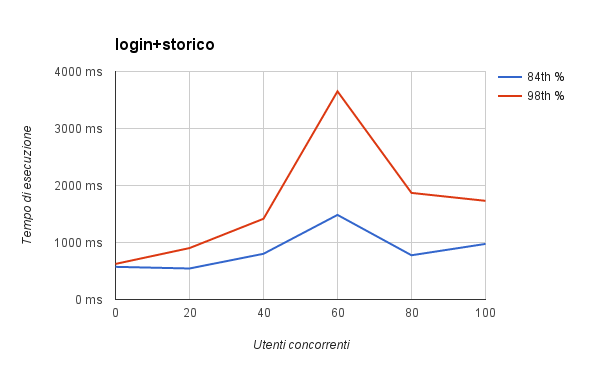
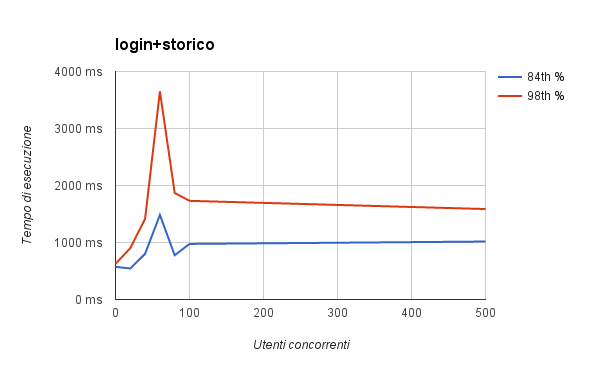
Added 500 users test

diff --git a/results/2016-23-02/README.md b/results/2016-23-02/README.md
@@ -2,6 +2,8 @@
 
 > Test eseguiti da istanza t1.micro
 
+---
+
 | Tipo istanza | Numero istanze | Utenti concorrenti |
 | ------------ | -------------- | ------------------ |
 | m4.large     | 1              | 0 + 1              |
@@ -71,6 +73,18 @@
 | login         | 268    | 897    | 144   | 198  | 1095 | 36   |
 | login+storico | 975    | 1731   | 682   | 413  | 3116 | 324  |
 | storico       | 690    | 1091   | 506   | 215  | 1187 | 287  |
+
+---
+
+| Tipo istanza | Numero istanze | Utenti concorrenti |
+| ------------ | -------------- | ------------------ |
+| m4.large     | 10             | 500 + 1            |
+
+| Scenario      | 84th % | 98th % | Media | SD   | Max  | Min  |
+| --------      | ------ | ------ | ----- | ---- | ---  | ---  |
+| login         | 353    | 1252   | 178   | 293  | 2022 | 35   |
+| login+storico | 1017   | 1587   | 697   | 366  | 2524 | 318  |
+| storico       | 637    | 1010   | 473   | 180  | 1173 | 290  |
 
 ## Progressione
 
